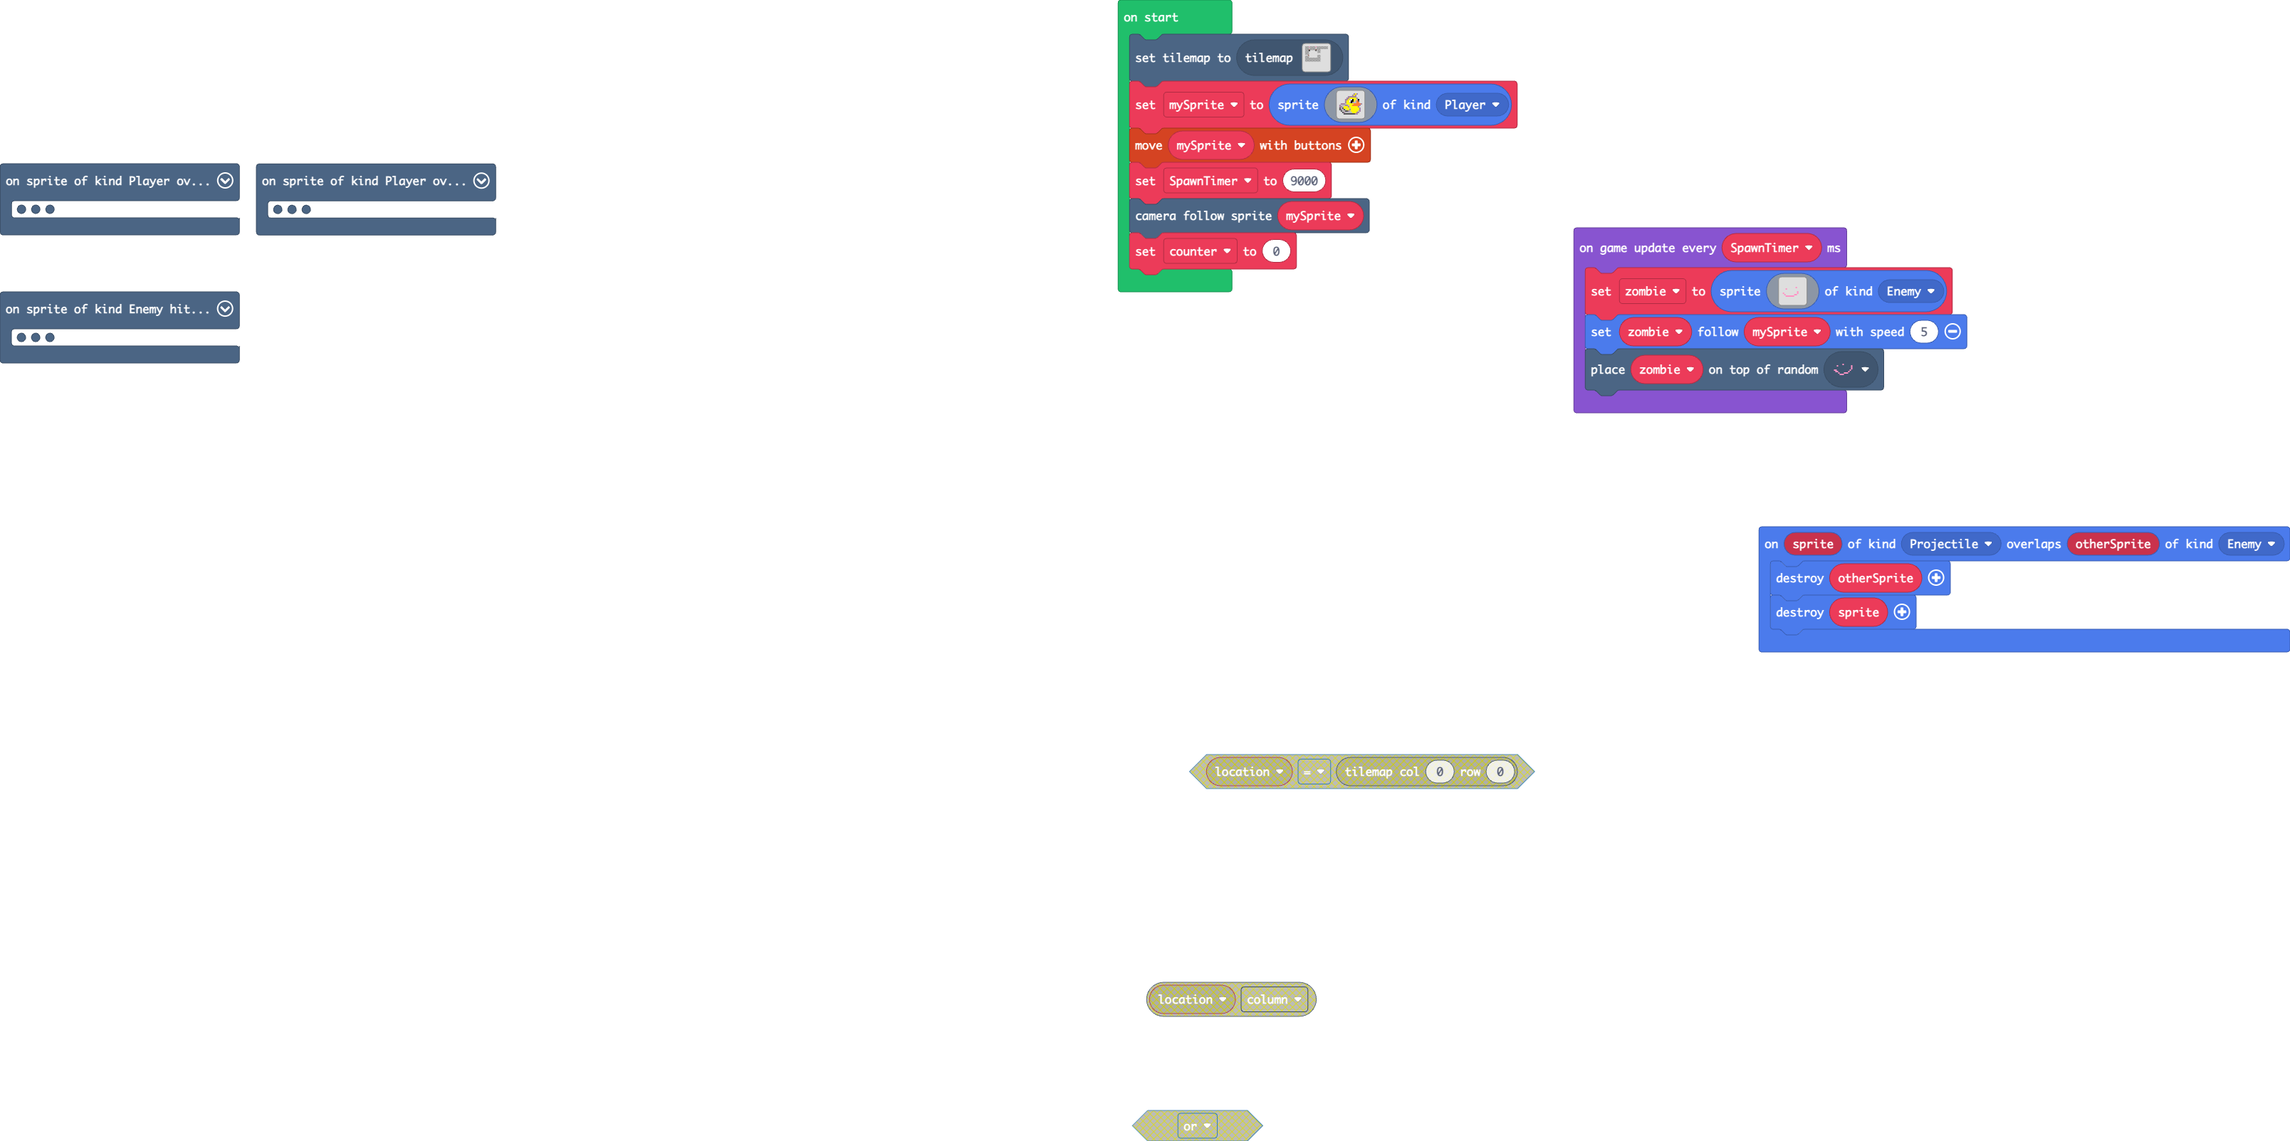
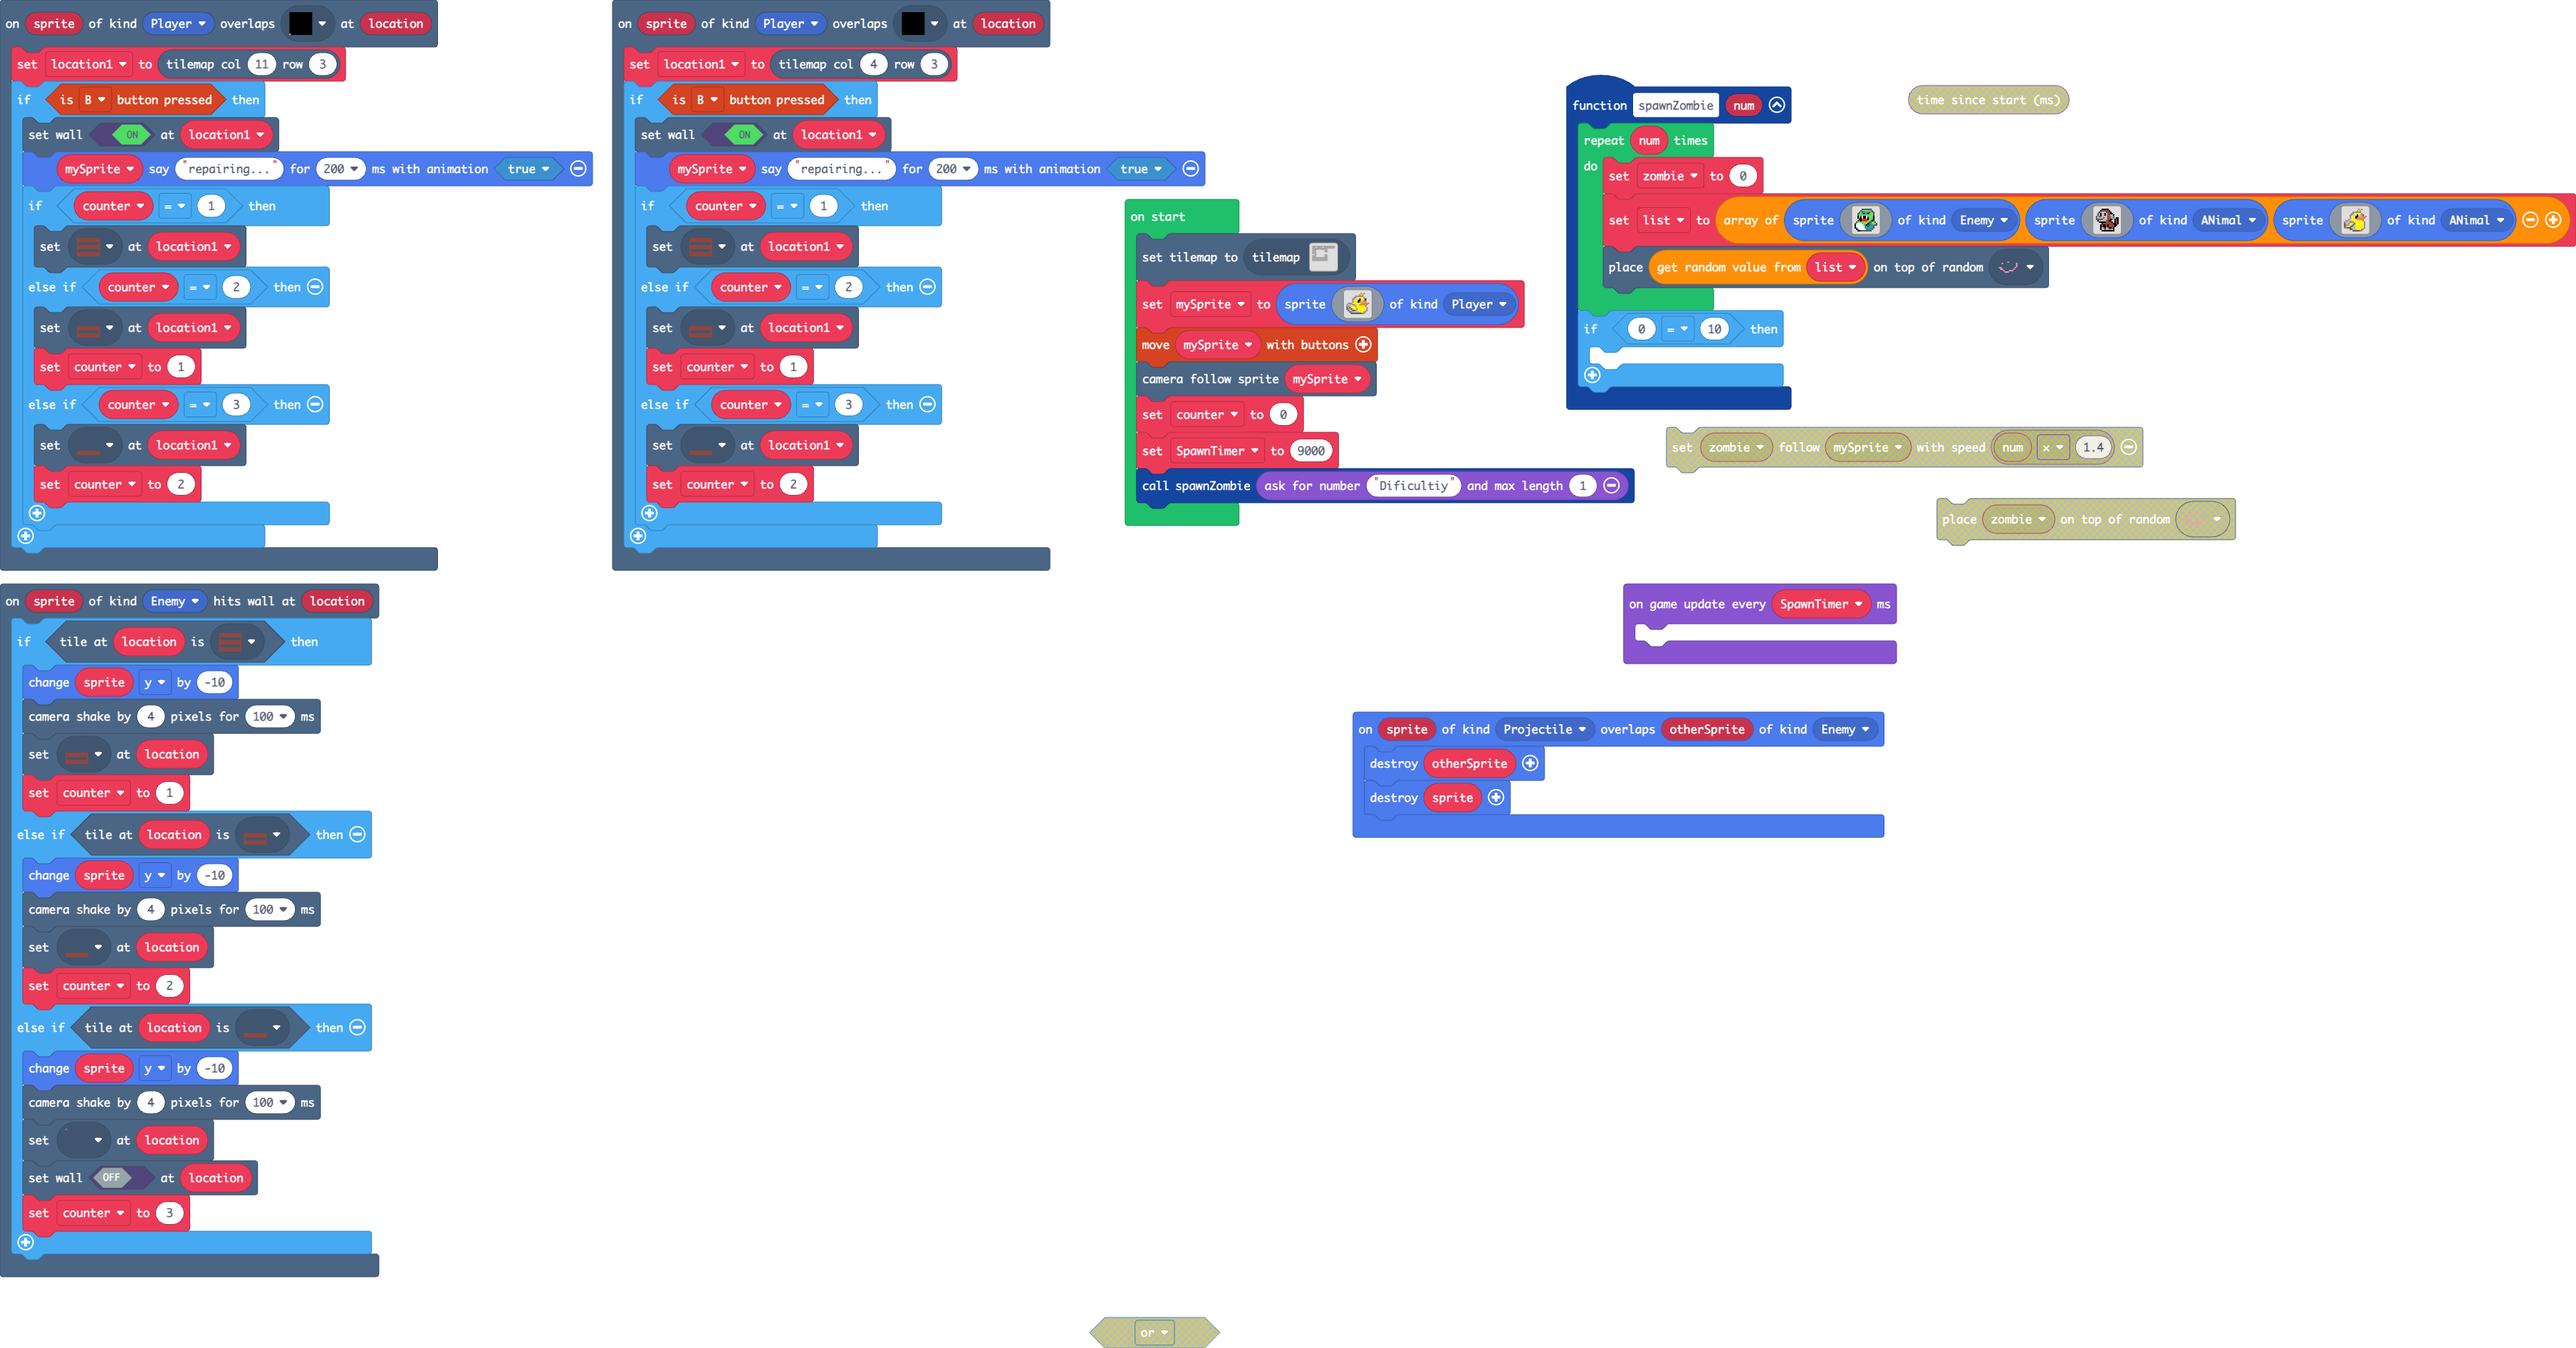
Update pxt.json, main.blocks, main.ts, tilemap.g.jres, tilemap.g.ts, images.g.jres, images.g.ts

diff --git a/main.ts b/main.ts
@@ -1,24 +1,10 @@
 namespace SpriteKind {
     export const Block = SpriteKind.create()
+    export const StatusBar = SpriteKind.create()
+    export const ANimal = SpriteKind.create()
 }
 scene.onOverlapTile(SpriteKind.Player, assets.tile`FLOOR0`, function (sprite, location) {
     location1 = tiles.getTileLocation(11, 3)
-    if (controller.B.isPressed()) {
-        tiles.setWallAt(location1, true)
-        mySprite.sayText("repairing...", 200, true)
-        if (counter == 1) {
-            tiles.setTileAt(location1, assets.tile`baracade`)
-        } else if (counter == 2) {
-            tiles.setTileAt(location1, assets.tile`baracade0`)
-            counter = 1
-        } else if (counter == 3) {
-            tiles.setTileAt(location1, assets.tile`baracade1`)
-            counter = 2
-        }
-    }
-})
-scene.onOverlapTile(SpriteKind.Player, assets.tile`FLOOR`, function (sprite, location) {
-    location1 = tiles.getTileLocation(4, 3)
     if (controller.B.isPressed()) {
         tiles.setWallAt(location1, true)
         mySprite.sayText("repairing...", 200, true)
@@ -52,22 +38,65 @@ scene.onHitWall(SpriteKind.Enemy, function (sprite, location) {
         counter = 3
     }
 })
+scene.onOverlapTile(SpriteKind.Player, assets.tile`FLOOR`, function (sprite, location) {
+    location1 = tiles.getTileLocation(4, 3)
+    if (controller.B.isPressed()) {
+        tiles.setWallAt(location1, true)
+        mySprite.sayText("repairing...", 200, true)
+        if (counter == 1) {
+            tiles.setTileAt(location1, assets.tile`baracade`)
+        } else if (counter == 2) {
+            tiles.setTileAt(location1, assets.tile`baracade0`)
+            counter = 1
+        } else if (counter == 3) {
+            tiles.setTileAt(location1, assets.tile`baracade1`)
+            counter = 2
+        }
+    }
+})
+function spawnZombie (num: number) {
+    for (let index = 0; index < num; index++) {
+        zombie = 0
+        list = [sprites.create(assets.image`snake`, SpriteKind.Enemy), sprites.create(assets.image`monkey`, SpriteKind.ANimal), sprites.create(img`
+            . . . . . . . . . . b 5 b . . . 
+            . . . . . . . . . b 5 b . . . . 
+            . . . . . . b b b b b b . . . . 
+            . . . . . b b 5 5 5 5 5 b . . . 
+            . . . . b b 5 d 1 f 5 d 4 c . . 
+            . . . . b 5 5 1 f f d d 4 4 4 b 
+            . . . . b 5 5 d f b 4 4 4 4 b . 
+            . . . b d 5 5 5 5 4 4 4 4 b . . 
+            . b b d d d 5 5 5 5 5 5 5 b . . 
+            b d d d b b b 5 5 5 5 5 5 5 b . 
+            c d d b 5 5 d c 5 5 5 5 5 5 b . 
+            c b b d 5 d c d 5 5 5 5 5 5 b . 
+            c b 5 5 b c d d 5 5 5 5 5 5 b . 
+            b b c c c d d d 5 5 5 5 5 d b . 
+            . . . . c c d d d 5 5 5 b b . . 
+            . . . . . . c c c c c b b . . . 
+            `, SpriteKind.ANimal)]
+        tiles.placeOnRandomTile(list._pickRandom(), assets.tile`myTile1`)
+    }
+    if ((0 as any) == (10 as any)) {
+    	
+    }
+}
 sprites.onOverlap(SpriteKind.Projectile, SpriteKind.Enemy, function (sprite, otherSprite) {
     sprites.destroy(otherSprite)
     sprites.destroy(sprite)
 })
-let zombie: Sprite = null
+let list: Sprite[] = []
+let zombie = 0
 let location1: tiles.Location = null
 let counter = 0
 let mySprite: Sprite = null
 tiles.setCurrentTilemap(tilemap`testing`)
 mySprite = sprites.create(assets.image`blob`, SpriteKind.Player)
 controller.moveSprite(mySprite)
-let SpawnTimer = 9000
 scene.cameraFollowSprite(mySprite)
 counter = 0
+let SpawnTimer = 9000
+spawnZombie(game.askForNumber("Dificultiy", 1))
 game.onUpdateInterval(SpawnTimer, function () {
-    zombie = sprites.create(assets.image`myImage0`, SpriteKind.Enemy)
-    zombie.follow(mySprite, 5)
-    tiles.placeOnRandomTile(zombie, assets.tile`myTile1`)
+	
 })

diff --git a/tilemap.g.ts b/tilemap.g.ts
@@ -24,7 +24,7 @@ namespace myTiles {
     helpers._registerFactory("tilemap", function(name: string) {
         switch(helpers.stringTrim(name)) {
             case "testing":
-            case "level1":return tiles.createTilemap(hex`18001800020202020402020202020204020202020202020202020202020202020002020202020200020202020202020202020202020202010001010201010100010101010202020202020202020202020302020202020203020202020000000000000000020202020500000000000006000202020000000000000000020202020000000000000000000202020000000000000000020202020000000000000000000202020000000000000000020202020000000000000000000000000000000000000000020202020000000000000000000000000000000000000000000000030000000000000000000202020000000000000000020202020000000000000000000202020000000000000000020202020000000000000000000202020000000000000000020202020202020202020202020202020000000000000000020202020202020202020202020202020000000000000000020202020202020202020202020202020000000000000000020202020202020202020202020202020000000000000000000000000000000000000000000000000000000000000000000000000000000000000000000000000000000000000000000000000000000000000000000000000000000000000000000000000000000000000000000000000000000000000000000000000000000000000000000000000000000000000000000000000000000000000000000000000000000000000000000000000000000000000000000000000000000000000000000000000000000000000000000000000000000000000000`, img`
+            case "level1":return tiles.createTilemap(hex`18001800020202020402020202020204020202020202020202020202020202020002020202020200020202020202020202020202020202010001010201010100010101010202020202020202020202020302020202020203020202020000000000000000020202020000000000000000000202020000000000000000020202020000000000000000000202020000000000000000020202020000000000000000000202020000000000000000020202020000000000000000000000000000000000000000020202020000000000000000000000000000000000000000000000030000000000000000000202020000000000000000020202020000000000000000000202020000000000000000020202020000000000000000000202020000000000000000020202020202020202020202020202020000000000000000020202020202020202020202020202020000000000000000020202020202020202020202020202020000000000000000020202020202020202020202020202020000000000000000000000000000000000000000000000000000000000000000000000000000000000000000000000000000000000000000000000000000000000000000000000000000000000000000000000000000000000000000000000000000000000000000000000000000000000000000000000000000000000000000000000000000000000000000000000000000000000000000000000000000000000000000000000000000000000000000000000000000000000000000000000000000000000000000`, img`
 2222.222222.222222222222
 2222.222222.222222222222
 2222.222222.222222222222
@@ -49,7 +49,7 @@ namespace myTiles {
 ........................
 ........................
 ........................
-`, [myTiles.transparency16,myTiles.tile2,myTiles.tile3,myTiles.tile1,myTiles.tile4,myTiles.tile7,myTiles.tile9], TileScale.Sixteen);
+`, [myTiles.transparency16,myTiles.tile2,myTiles.tile3,myTiles.tile1,myTiles.tile4], TileScale.Sixteen);
         }
         return null;
     })

diff --git a/images.g.ts b/images.g.ts
@@ -22,25 +22,6 @@ e e e e e e e e e e e e e e e e
 e e e e e e e e e e e e e e e e 
 . . . . . . . . . . . . . . . . 
 `;
-            case "image2":
-            case "myImage0":return img`
-. . . . . . . . . . . . . . . . 
-. . . . . . . . . . . . . . . . 
-. . . . . . . . . . . . . . . . 
-. . . . . . . . . . . . . . . . 
-. . . . . . . . . . . . . . . . 
-. . . . . . . . . . 3 . . . . . 
-. . . 3 . . . . . . . . . . . . 
-. . . . . . . . . . . . . . . . 
-. . . . . . . . . . . 3 . . . . 
-. 3 . . . . . . . . . 3 . . . . 
-. . 3 . . . . . . 3 3 . . . . . 
-. . . 3 3 3 3 3 3 . . . . . . . 
-. . . . . . . . . . . . . . . . 
-. . . . . . . . . . . . . . . . 
-. . . . . . . . . . . . . . . . 
-. . . . . . . . . . . . . . . . 
-`;
             case "image3":
             case "blob":return img`
 . . . . . . . . . . b 5 b . . . 
@@ -97,6 +78,44 @@ c b d c d 5 5 b 5 5 5 5 5 5 b .
 . . . . . . . . . . . . . . . . 
 . . . . . . . . . . . . . . . . 
 . . . . . . . . . . . . . . . . 
+`;
+            case "image2":
+            case "monkey":return img`
+. . . . f f f f f . . . . . . . 
+. . . f e e e e e f . . . . . . 
+. . f d d d d e e e f . . . . . 
+. c d f d d f d e e f f . . . . 
+. c d f d d f d e e d d f . . . 
+c d e e d d d d e e b d c . . . 
+c d d d d c d d e e b d c . f f 
+c c c c c d d d e e f c . f e f 
+. f d d d d d e e f f . . f e f 
+. . f f f f f e e e e f . f e f 
+. . . . f e e e e e e e f f e f 
+. . . f e f f e f e e e e f f . 
+. . . f e f f e f e e e e f . . 
+. . . f d b f d b f f e f . . . 
+. . . f d d c d d b b d f . . . 
+. . . . f f f f f f f f f . . . 
+`;
+            case "image6":
+            case "snake":return img`
+. . . . . c c c c c c c . . . . 
+. . . . c 6 7 7 7 7 7 6 c . . . 
+. . . c 7 c 6 6 6 6 c 7 6 c . . 
+. . c 6 7 6 f 6 6 f 6 7 7 c . . 
+. . c 7 7 7 7 7 7 7 7 7 7 c . . 
+. . f 7 8 1 f f 1 6 7 7 7 f . . 
+. . f 6 f 1 f f 1 f 7 7 7 f . . 
+. . . f f 2 2 2 2 f 7 7 6 f . . 
+. . c c f 2 2 2 2 7 7 6 f c . . 
+. c 7 7 7 7 7 7 7 7 c c 7 7 c . 
+c 7 1 1 1 7 7 7 7 f c 6 7 7 7 c 
+f 1 1 1 1 1 7 6 f c c 6 6 6 c c 
+f 1 1 1 1 1 1 6 6 c 6 6 6 c . . 
+f 6 1 1 1 1 1 6 6 6 6 6 6 c . . 
+. f 6 1 1 1 1 1 6 6 6 6 c . . . 
+. . f f c c c c c c c c . . . . 
 `;
         }
         return null;
